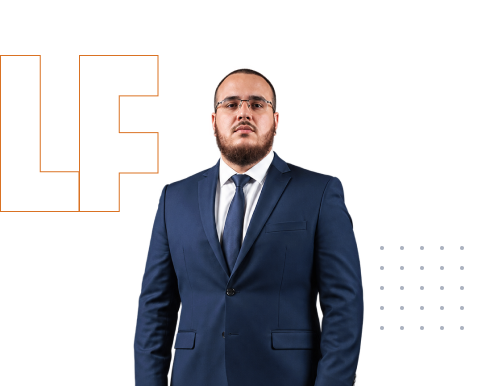
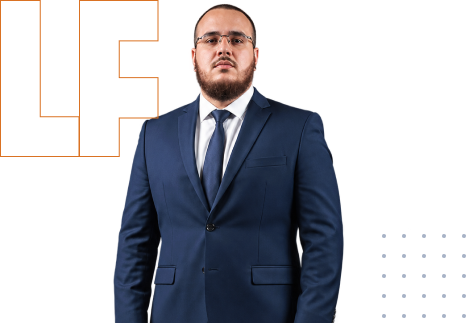
:construction: Reformulando projetos

diff --git a/src/pages/Home/index.jsx b/src/pages/Home/index.jsx
@@ -11,7 +11,6 @@ import novax from "../../assets/novax-eng.png";
 import portfolio from "../../assets/portfolio.png";
 import brendadotarot from "../../assets/Brendadotarot.png";
 import UnderProtection from "../../assets/Under_Protection.png";
-import viewMore from "../../assets/~~_.svg";
 import seta from "../../assets/seta.svg";
 import skills from "../../assets/skills.png";
 import about from "../../assets/about.png";
@@ -45,20 +44,21 @@ export function Home() {
             <FaHashtag />
             projects
           </h2>
-          <Link to="/projetos">
+          {/* Quando mais projetos forem adicionados, descomente o link abaixo */}
+          {/* <Link to="/projetos">
             view all
             <img className="seta" src={viewMore} alt="seta" />
-          </Link>
+          </Link> */}
           <Swiper
-            spaceBetween={20}
+            spaceBetween={10}
             slidesPerView={3}
             >
             <SwiperSlide>
               <Card
                 img={novax}
                 title={"Novax Engenharia"}
-                tags={"Wordpress Elementor "}
-                desc={"Site de empresa de ar-condicionado e refrigeração "}
+                tags={"Wordpress · Elementor "}
+                desc={"Website institucional - Engenharia e climatização "}
                 href={"https://novaxengenharia.com.br/"}
               />
             </SwiperSlide>
@@ -66,8 +66,8 @@ export function Home() {
               <Card
                 img={UnderProtection}
                 title={"Under Protection"}
-                tags={"Wordpress Elementor "}
-                desc={"Site de empresa de Cyber Segurança "}
+                tags={"Wordpress · Elementor "}
+                desc={"Website institucional - Cibersegurança "}
                 href={"https://underprotection.com.br/"}
               />
             </SwiperSlide>
@@ -75,8 +75,8 @@ export function Home() {
               <Card
                 img={brendadotarot}
                 title={"Brenda Do tarot"}
-                tags={"Wordpress Elementor "}
-                desc={"Site de Taróloga com atendimento Online "}
+                tags={"Wordpress · Elementor "}
+                desc={"Website profissional - Atendimento online "}
                 href={"https://brendadotarot.com.br/"}
               />
             </SwiperSlide>
@@ -84,10 +84,9 @@ export function Home() {
               <Card
                 img={portfolio}
                 title={"Portfolio"}
-                tags={"React StyledComponents "}
+                tags={"React · StyledComponents · GSAP"}
                 desc={"É onde você está acessando agora"}
-                href={"/home"}
-                href2={""}
+                href={"/"}
               />
             </SwiperSlide>
           </Swiper>

diff --git a/src/components/Banner/styles.js b/src/components/Banner/styles.js
@@ -5,6 +5,7 @@ export const Container = styled.div`
   width: 100%;
   display: flex;
   flex-direction: row;
+  align-items: center;
   gap: 5rem;
   margin-top: 20rem;
   justify-content: space-around;
@@ -32,10 +33,20 @@ export const Container = styled.div`
       font-size: 2.5rem;
       width: 87%;
     }
+      
       .CTA {
         display: flex;
+        justify-content: start;
+        align-items: center;
         gap: 2rem;
+        .icon {
+          width: 2rem;
+          height: 2rem;
+        }
           a {
+          display: flex;
+          align-items: center;
+          gap: 1rem;
           font-size: 1.6rem;
           padding: 0.8rem 2.5rem;
           border: 1px solid ${({ theme }) => theme.COLORS.PRIMARY};
@@ -48,7 +59,7 @@ export const Container = styled.div`
         }
       }  
     ul {
-      list-style: none;
+      list-style: circle;
       display: flex;
       justify-content: start;
       gap: 2rem;
@@ -56,17 +67,17 @@ export const Container = styled.div`
         padding: 0.5rem 1rem;
         font-size: 1.6rem;
         color: ${({ theme }) => theme.COLORS.FONT};
-      }
-        li:hover{
-        cursor: default;
-          background-color: ${({ theme }) => theme.COLORS.PRIMARY};
-          color: ${({ theme }) => theme.COLORS.TITLE};
+        &:hover {
+          cursor: default;
+          color: ${({ theme }) => theme.COLORS.PRIMARY};
         }
+      }
+        
     }
   }
   .perfil {
     .person {
-      text-align: center;
+      margin-top: 0px;
       img {
         position: relative;
         max-width: 50rem;
@@ -74,7 +85,7 @@ export const Container = styled.div`
     }
     .above {
       margin: auto;
-      width: 90%;
+      width: 100%;
       display: flex;
       align-items: center;
       gap: 2rem;

diff --git a/src/components/Card/styles.js b/src/components/Card/styles.js
@@ -5,7 +5,7 @@ export const Container = styled.div`
   margin: auto;
   margin-top: 4.8rem;
   max-width: 30rem;
-  max-height: 42rem;
+  max-height: 45rem;
   color: ${({ theme }) => theme.COLORS.FONT};
   border: 1px solid ${({ theme }) => theme.COLORS.FONT};
 
@@ -23,17 +23,20 @@ export const Container = styled.div`
     width: 100%;
     height: 20.1rem;
     object-fit: cover;
+    object-position: left;
+    border-bottom: 1px solid ${({ theme }) => theme.COLORS.FONT};
 }
   .tags {
-    padding: 0.8rem 1.6rem;
+    padding: 0.5rem 0rem;
     font-size: 1.6rem;
-    border-top: 1px solid;
-    border-bottom: 1px solid;
+    color: ${({ theme }) => theme.COLORS.FONT};
+    
   }
 
   .cont {
     display: flex;
     flex-direction: column;
+    gap: 1.6rem;
     padding: 1.6rem;
   }
   h2 {
@@ -52,29 +55,6 @@ export const Container = styled.div`
   button:hover {
     background-color: ${({ theme }) => theme.COLORS.HOVER_PRIMARY};
   }
-  .btnGray {
-    display: flex;
-    justify-content: center;
-    align-items: center;
-    gap: 8px;
-    padding: 0.8rem 1rem;
-    font-size: 1.3rem;
-    background-color: transparent;
-    color: ${({ theme }) => theme.COLORS.FONT};
-    border: 1px solid ${({ theme }) => theme.COLORS.FONTS};
-
-    svg {
-      min-width: 1rem;
-      min-height: 1rem;
-      max-height: 2rem;
-      max-width: 1.6rem;
-      color: ${({ theme }) => theme.COLORS.FONT};
-    }
-  }
-  .btnGray:hover {
-    background-color: ${({ theme }) => theme.COLORS.HOVER_GRAY};
-  }
-
   @media (min-width: ${DEVICE_BREAKPOINTS.MD}) {
     margin: 0;
     margin-top: 4.8rem;

diff --git a/src/components/Card/index.jsx b/src/components/Card/index.jsx
@@ -1,29 +1,23 @@
 import { Container } from "./styles";
 import { Button } from "../Button";
 import png from "../../assets/btnIcon.svg";
-import { FaCode } from "react-icons/fa6";
 import PropTypes from "prop-types";
 
-export function Card({ img, title, desc, tags, href, href2 }) {
+export function Card({ img, title, desc, tags, href}) {
   return (
     <Container>
       <img className="boxImg" src={img} alt="preview site image" />
 
-      <div className="tags">{tags}</div>
-
       <div className="cont">
         <h2>{title}</h2>
         <p>{desc}</p>
+        <div className="tags">{tags}</div>
         <div className="btn">
           <a href={href} target="blank">
             <Button title={"Live"} icon={png} />
           </a>
-          <a href={href2} target="blank">
-            <button className="btnGray">
-              Cached <FaCode />
-            </button>
-          </a>
         </div>
+        
       </div>
     </Container>
   );
@@ -35,5 +29,4 @@ Card.propTypes = {
   desc: PropTypes.string.isRequired,
   tags: PropTypes.node.isRequired,
   href: PropTypes.string.isRequired,
-  href2: PropTypes.string.isRequired,
 };

diff --git a/src/components/Banner/index.jsx b/src/components/Banner/index.jsx
@@ -1,5 +1,7 @@
 import { Container } from "./styles";
 import { Link } from "react-router-dom";
+import { LuFolderCode } from "react-icons/lu";
+import { LuContact } from "react-icons/lu";
 import { useTextReveal } from "../../animations/useTextReveal";
 import { useBoxReveal } from "../../animations/useBoxReveal";
 import photo from "../../assets/photo.png";
@@ -17,14 +19,16 @@ export function Banner() {
           Lucas Fagundes <strong>Desenvolvedor Front-end</strong>
         </h1>
         <p ref={introTextRef}>
-          Desenvolvimento de interfaces modernas, responsivas e experiências digitais com foco em performance e interação.
+          Desenvolvimento de interfaces modernas e responsivas, com foco em performance, interação e experiência digital.
         </p>
         <div className="CTA">
           <Link to={"/projetos"}>
-          Ver Projetos
+          <LuFolderCode className="icon" />
+          Projetos
           </Link>
           <Link to={"/contatos"}>
-          Ver Contatos
+          <LuContact className="icon" />
+          Contato
           </Link>
           
         </div>

diff --git a/src/components/Header/styles.js b/src/components/Header/styles.js
@@ -28,8 +28,8 @@ export const Container = styled.header`
         gap: .8rem;
 
         img {
-            width: 3rem;
-            height: 3rem;
+            width: 2.5rem;
+            height: 2.5rem;
         }
         h1{
             font-size: 3rem;
